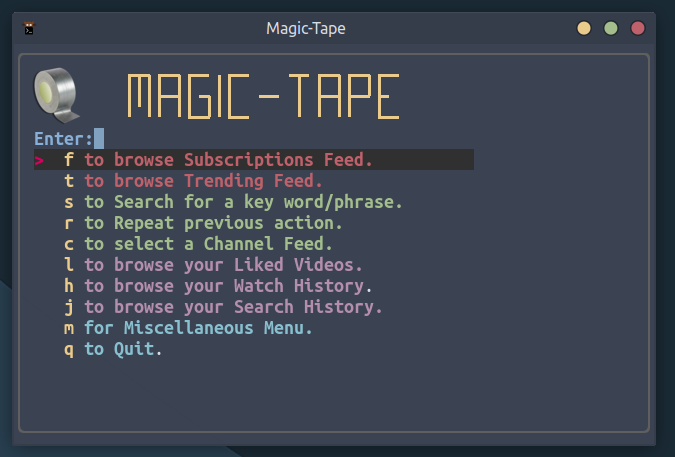
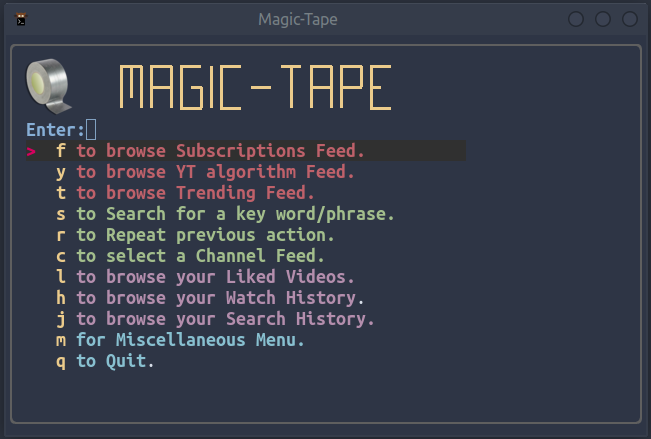
update sh md & screenshot

Changed region(s): [[0.0, 0.0, 1.0, 1.0], [0.3687, 0.1481, 0.6144, 0.2665], [0.1843, 0.1481, 0.3687, 0.2665]]

diff --git a/README.md b/README.md
@@ -6,14 +6,25 @@ Image support is achieved either with kitty terminal, ueberzug or chafa.
 
 
 With magic-tape, through the __main menu__, the user can
+
   * Browse  videos from __subscriptions__.
+
+  * Browse videos suggested by __YT algorithm__.
+
   * Browse through __trending__ video feed.
+
   * make a video __search__, using keywords or phrases.
+
   * Watch a previously watched video (__watch history__).
+
   * Browse videos from a __subcsribed channel__.
+
   * Watch a __liked__ video.
+
   * Repeat the __previous__ selection.
+
   * Repeat a previous search (__search history__).
+
   * __Watch/download__ video/audio content, in various formats.
 
 
@@ -21,10 +32,15 @@ With magic-tape, through the __main menu__, the user can
 Through the __miscellaneous menu__ the user can
 
   * __Set up Preferences__ (configuration).
+
   * __Like__ / __Unlike__ a video.
+
   * __Synchronize__ the above actions with their YouTube account.
+
   * __Import subscriptions__ from YouTube.
+
   * __Subscribe__ to/ __Unsubscribe__ from a channel.
+
   * __Clear__ their watch/search __history__, __liked__ videos, thumbnail __cache__.
 
 
@@ -41,13 +57,21 @@ pip install yt-dlp
 ```
 
 Other dependencies include:
+
 * [cURL](https://curl.se/)
+
 * [rofi](https://github.com/davatorium/rofi)
+
 * [fzf](https://github.com/junegunn/fzf)
+
 * [mpv](https://github.com/mpv-player/mpv)
+
 * [jq](https://stedolan.github.io/jq/)
+
 * [xclip](https://github.com/astrand/xclip)
+
 * [dmenu](http://tools.suckless.org/dmenu/)
+
 * [imagemagick](https://imagemagick.org/index.php)
 
 Regarding image support, it can either be achived with
@@ -149,13 +173,18 @@ magic-tape.sh
 
 While using the script for the first time, the user will be asked for his preferences:
 * __Prefered action Selector__, can either be `rofi`,`fzf` or `dmenu`.
-* __Prefered web browser__, the cookies of which will be used by magic-tape in order to extract data from YouTube.
-Supported browsers by yt-dlp are brave, chrome, chromium, edge, firefox, opera, vivaldi.
+
+* __Prefered web browser__, the cookies of which will be used by magic-tape in order to extract data from YouTube. Supported browsers by yt-dlp are brave, chrome, chromium, edge, firefox, opera, vivaldi.
+
 * __Prefered video list length__ to get in each request. Longer video lists may be more preferable, but take longer to get.
+
 * __Dialog message delay time__: the time a message in the cli window remains visible, in seconds.
+
 * __Notification message delay time__: the time a notification remains visible, in seconds.
-* __Image Support__:either __kitty__, __ueberzug__ or __none__.
-*Toggle __multi-color__ terminal messages.
+
+* __Image Support__: either __kitty__, __ueberzug__ or __none__.
+
+* Toggle __multi-color__ terminal messages.
 
 The user can always alter these preferences using the __P option__ of the __Miscellaneous Menu__.
 
@@ -214,17 +243,33 @@ Video selection is done with __fzf__:
 |Shift+Left Arrow|Previous Page|
 
 Once a video is selected, the user is prompted to __select action__:
+
 * Play ⭐Video 360p
+
 * Play ⭐⭐Video 720p
+
 * Play ⭐⭐⭐Best Video/Live
+
 * Play ⭐⭐⭐Best Audio
+
 * Download Video 🔽
+
 * Download Audio 🔽
+
 * Like Video ❤
+
 * Browse Feed of channel that uploaded the video  📺
+
+
 * Subscribe to the channel that uploaded the video 📋
+
+
 * Open in browser 🌐
+
+
 * Copy link 🔗
+
+
 * Quit ❌
 
 ![image7](screenshots/rofi_select_action.png)
